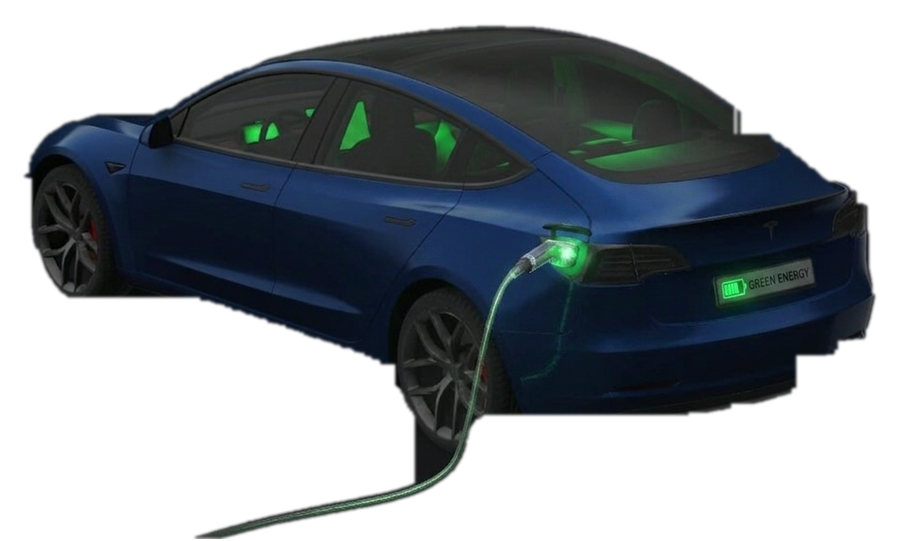
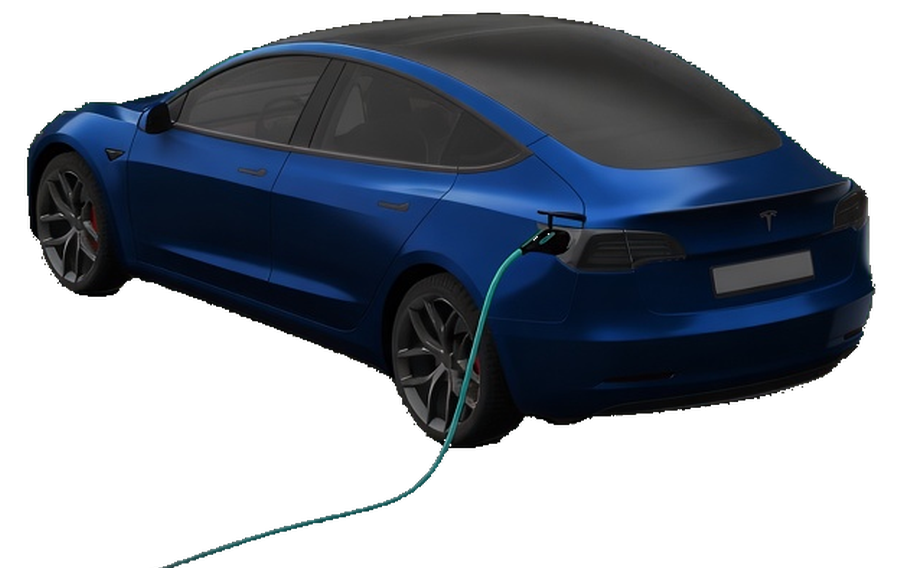
Alle drei Fahrzeugbilder aus einer Vorlage freigestellt
Die drei Ladezustaende stammen jetzt aus EINEM Gruenscreen-Blatt, sind also
in Beleuchtung und Massstab identisch. "steckt" und "laedt" zeigen dieselbe
Ansicht und unterscheiden sich nur durch das leuchtende Kabel - zwischen
diesen beiden Zustaenden springt der Wagen nicht mehr.

  tesla-frei     900x511   Auto 847x498   Verhaeltnis 0,97
  tesla-steckt   900x540   Auto 847x513   Verhaeltnis 0,95
  tesla-laedt    900x568   Auto 846x540   Verhaeltnis 0,95

Das Verhaeltnis Autohoehe zu Bildhoehe bestimmt die dargestellte
Autogroesse, weil die Kachel per object-fit:contain auf 164 px Hoehe
einpasst.

Drei Dinge waren zu loesen, alle erst durch Nachmessen aufgefallen:

- Gruenstichigkeit RELATIV zur Helligkeit messen. Der Bodenschatten hat
  dieselbe Farbe wie der Hintergrund, nur dunkler; absolut gemessen bleibt
  er als freischwebender Fleck stehen. Auf dem dunklen Kachelgrund
  unsichtbar, auf hellem sofort - deshalb beide Gruende pruefen.
- Das tuerkise Ladekabel schuetzen (b > 0,40*g). Das relative Mass allein
  fraess ein Fuenftel davon (1060 -> 846 Pixel).
- Nach Zusammenhangskomponenten trennen statt mit einem waagerechten
  Schnitt. Das Kabel des mittleren Wagens laeuft bis y 904 hinunter, also
  mitten in das untere Bild; der gerade Schnitt bei y 845 liess dort einen
  Kabelstummel stehen. Das Blatt zerfaellt sauber in drei Komponenten
  (151k, 134k, 123k Pixel), jedes Kabel bleibt bei seinem Wagen.
[…]

Changed region(s): [[0.0311, 0.0, 0.9956, 1.0]]

diff --git a/CHANGELOG.md b/CHANGELOG.md
@@ -13,16 +13,44 @@ Grundwidgets, Skins, TV-Modus. Ab hier ist es einzeln festgehalten.
 
 ## Ohne Versionssprung — 29.08.2026
 
-**Neu**
+**Geändert**
 
-- **`img/car/tesla-laedt-heck.png`** — Fahrzeugbild für den Ladezustand, Blick
-  von schräg hinten mit steckendem Kabel. Aus einem Grünscreen-Rendering
-  freigestellt und auf die Geometrie der vorhandenen drei gebracht: 900 px
-  breit, Auto 846 × 494 px, Verhältnis Autohöhe zu Bildhöhe 0,95 wie bei
-  `tesla-frei`/`tesla-steckt`/`tesla-laedt` — damit springt die Größe beim
-  Zustandswechsel nicht.
-  Die vorhandenen Bilder bleiben unangetastet; welches genommen wird,
-  entscheidet weiterhin `attr <gerät> vizCar image=laedt:…|steckt:…|frei:…`.
+- **Alle drei Fahrzeugbilder ersetzt** (`tesla-frei`, `tesla-steckt`,
+  `tesla-laedt`). Sie stammen jetzt aus **einer** Grünscreen-Vorlage, sind also
+  in Beleuchtung und Maßstab identisch; „steckt" und „lädt" zeigen dieselbe
+  Ansicht und unterscheiden sich nur durch das leuchtende Kabel — der Wagen
+  springt zwischen diesen beiden Zuständen also nicht mehr.
+
+  | | Bild | Auto | Autohöhe / Bildhöhe |
+  |---|---|---|---|
+  | `tesla-frei` | 900 × 511 | 847 × 498 | 0,97 |
+  | `tesla-steckt` | 900 × 540 | 847 × 513 | 0,95 |
+  | `tesla-laedt` | 900 × 568 | 846 × 540 | 0,95 |
+
+  Das letzte Verhältnis ist die Zahl, die zählt: die Kachel passt das Bild per
+  `object-fit: contain` auf 164 px Höhe ein, also bestimmt es die dargestellte
+  Autogröße.
+
+  Drei Dinge waren beim Freistellen zu lösen, alle drei erst durch Nachmessen
+  aufgefallen:
+
+  - **Grünstichigkeit relativ zur Helligkeit** messen, nicht absolut. Der
+    Bodenschatten hat dieselbe Farbe wie der Hintergrund, nur dunkler — absolut
+    gemessen bleibt er als freischwebender Fleck stehen. Auf dem dunklen
+    Kachelgrund unsichtbar, auf hellem sofort zu sehen.
+  - **Das türkise Ladekabel schützen** (`b > 0,40·g`): das relative Maß allein
+    fraß ein Fünftel davon (1060 → 846 Pixel).
+  - **Nach Zusammenhangskomponenten trennen**, nicht mit einem waagerechten
+    Schnitt. Das Kabel des mittleren Wagens läuft schräg nach unten links bis
+    y 904, also mitten in das untere Bild; ein gerader Schnitt ließ dort einen
+    Kabelstummel stehen.
+
+  Unten sind die Bilder mit **−30°** beschnitten: die Kante fällt nach links ab
+  und läuft damit unter dem Wagen durch (0 Pixel vom Wagen entfernt). In der
+  Gegenrichtung läge sie am linken Rand 327 px höher und kappte das Vorderrad.
+
+  Am `vizCar`-Attribut ist nichts zu ändern, die Dateinamen bleiben. Die
+  Zwischendatei `tesla-laedt-heck.png` ist damit hinfällig und wieder entfernt.
 
 ---
 
